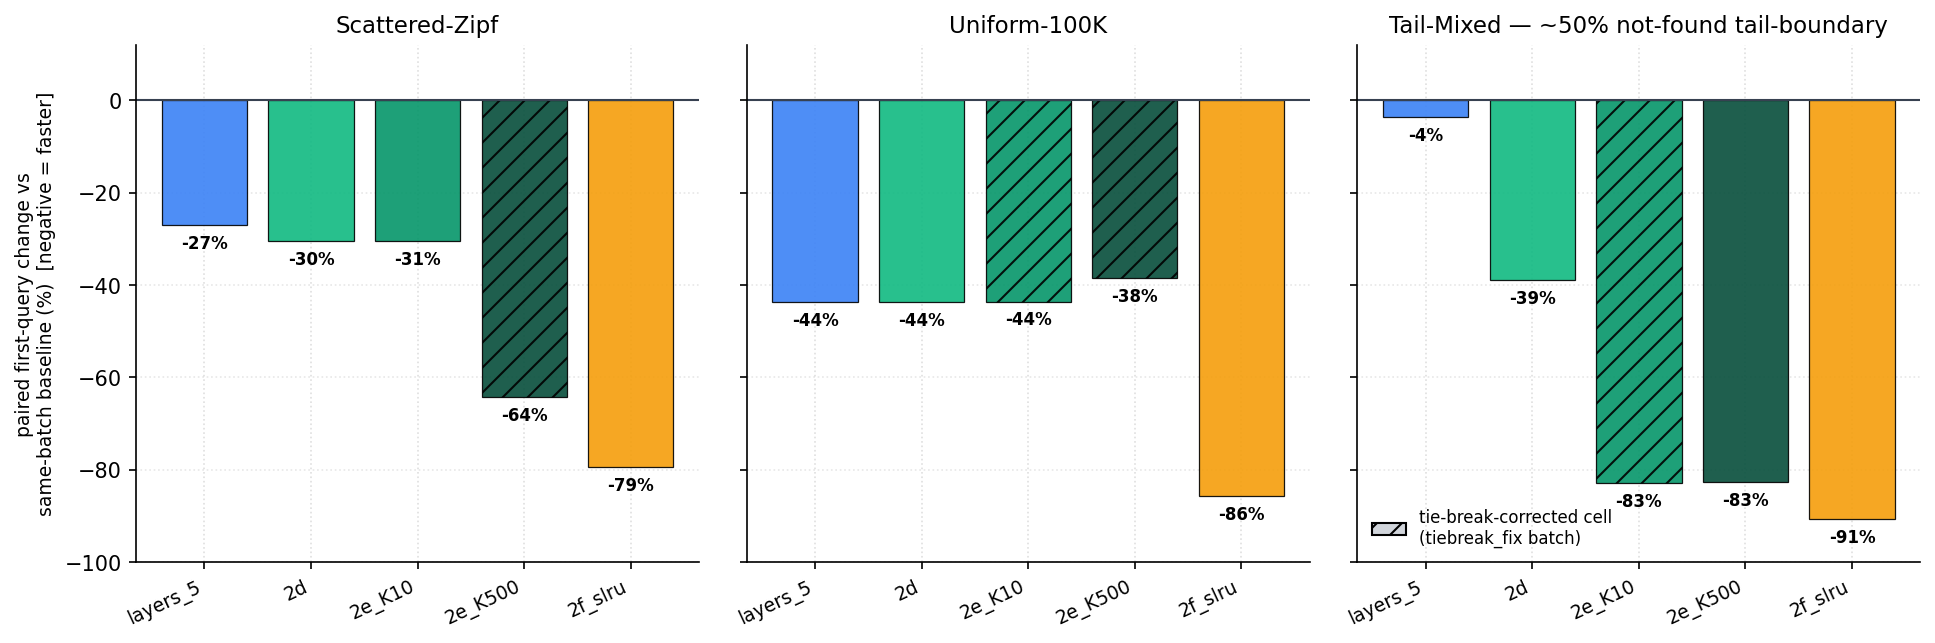
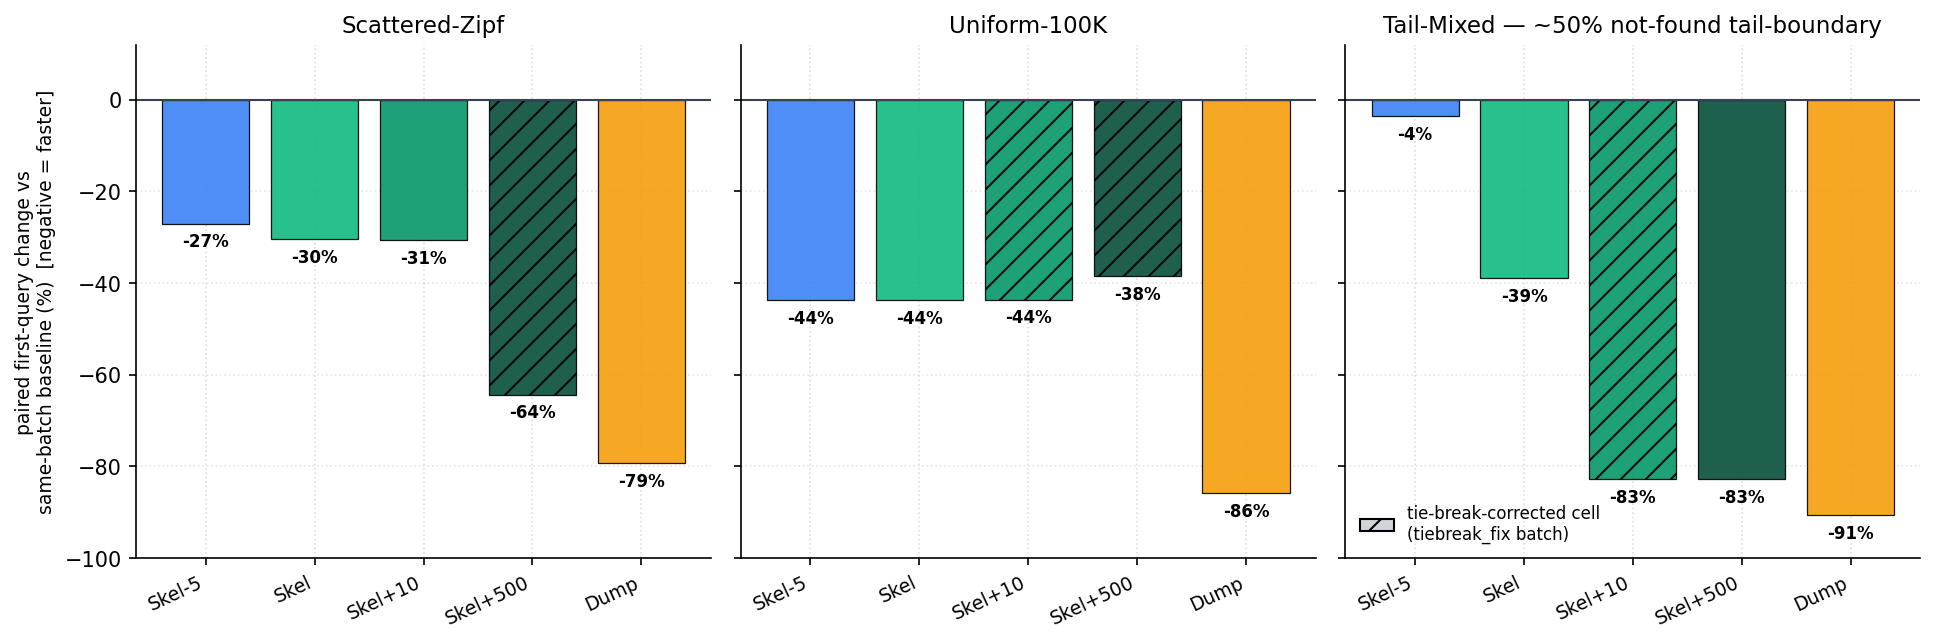
Regenerate figures with paper-facing strategy names
Update the 6 figure generators to render the short paper names instead of
notebook codenames, add a shared STRAT_DISPLAY map + strat_display() helper in
plot_utils (separate from STRAT_LABELS, which non-paper figures still use), and
regenerate the PNGs in figures/out. Fig 1 labels layouts orig/vacuum/type-aware
(1a/1b/1c dropped); figs 13/14/16/17/19 use Skel-N/Skel/Skel+K/Dump/Dump-N/
learned-Markov-N. Codebase strategy ids are unchanged. Bumps the paper submodule
pointer to the matching regenerated figures.

diff --git a/figures/plot_utils.py b/figures/plot_utils.py
@@ -76,6 +76,28 @@ STRAT_ORDER  = ["baseline", "layers_5", "layers_92", "2d", "2e_K10", "2e_K500", 
 STRAT_LABELS  = {"baseline": "baseline", "layers_5": "layers_5", "layers_92": "layers_92",
               "2d": "2d", "2e_K10": "2e_K10", "2e_K500": "2e_K500", "2f_slru": "2f SLRU"}
 
+# paper-facing display names (notebook codename -> short name used in the paper).
+# separate from STRAT_LABELS (which several non-paper figures still use verbatim).
+STRAT_DISPLAY = {
+    "baseline": "baseline",
+    "layers_5": "Skel-5", "layers_46": "Skel-46", "layers_92": "Skel-92",
+    "2a": "Skel-all-range", "2b": "Skel-all-page", "2d": "Skel",
+    "2e_K10": "Skel+10", "2e_K40": "Skel+40", "2e_K50": "Skel+50",
+    "2e_K92": "Skel+92", "2e_K100": "Skel+100", "2e_K500": "Skel+500",
+    "2f_slru": "Dump", "2f_SLRU": "Dump",
+    "2f_top14": "Dump-14", "2f_top28": "Dump-28",
+    "2f_top100": "Dump-100", "2f_top500": "Dump-500",
+    "learned_markov": "learned-Markov",
+    "learned_markov_14": "learned-Markov-14", "learned_markov_28": "learned-Markov-28",
+    "lp_sorted": "LP-sorted", "lp_shuf": "LP-shuf",
+    # ablation controls: paper renders these codenames verbatim, keep as-is
+    "leaf_rand_K10": "leaf_rand_K10", "leaf_freq_K10": "leaf_freq_K10",
+}
+
+def strat_display(s):
+    """Paper short-name for a notebook codename; identity for anything unmapped."""
+    return STRAT_DISPLAY.get(s, s)
+
 def load_summary(arm="async"):
     """Return {(workload, db, strategy): row} from summary.csv for one arm.
     baseline rows are stored under arm 'baseline' but exposed for every requested arm."""

diff --git a/figures/16_ram_pressure_sweep.py b/figures/16_ram_pressure_sweep.py
@@ -15,7 +15,7 @@ import csv, os
 import matplotlib
 matplotlib.use("Agg")
 import matplotlib.pyplot as plt
-from plot_utils import save, STRATEGY_COLORS, workload_display_name
+from plot_utils import save, STRATEGY_COLORS, workload_display_name, strat_display
 
 ROOT = os.path.dirname(os.path.dirname(os.path.abspath(__file__)))
 SWEEP = os.path.join(ROOT, "results/ram_pressure")
@@ -52,8 +52,8 @@ for col, wl in enumerate(WORKLOADS):
                 if (wl, s, "async") in DATA[t] else float("nan") for t, _ in CAPS]
         fq = [float(DATA[t].get((wl, s, "async"), {}).get("fq_median", "nan"))
               if (wl, s, "async") in DATA[t] else float("nan") for t, _ in CAPS]
-        ax_d.plot(xpos, dpct, "o-", color=col_s, lw=2, ms=6, label=s)
-        ax_f.plot(xpos, fq, "o-", color=col_s, lw=2, ms=6, label=s)
+        ax_d.plot(xpos, dpct, "o-", color=col_s, lw=2, ms=6, label=strat_display(s))
+        ax_f.plot(xpos, fq, "o-", color=col_s, lw=2, ms=6, label=strat_display(s))
     ax_f.plot(xpos, base_fq, "--", color="#dc2626", lw=1.5, label="baseline (no prefetch)")
     ax_d.axvline(0.5, color="#9ca3af", ls=":", lw=1)   # mark "cap < WS" region start
     ax_d.set_title(WL_TITLE[wl], fontsize=11)

diff --git a/figures/19_openwhisk_effectiveness_bars.py b/figures/19_openwhisk_effectiveness_bars.py
@@ -23,7 +23,7 @@ from collections import defaultdict
 
 import numpy as np
 
-from plot_utils import ROOT, plt, save
+from plot_utils import ROOT, plt, save, strat_display
 
 CSV = ROOT / "deployment/openwhisk/analysis/comparison/effectiveness_ow_vs_workstation_revised_freeze.csv"
 
@@ -61,7 +61,7 @@ def main():
 
         ax.set_title(wl, fontsize=11)
         ax.set_xticks(x)
-        labels = [r["strategy"] + ("*" if str(r.get("position_sensitive", "")).strip().lower() == "true" else "")
+        labels = [strat_display(r["strategy"]) + ("*" if str(r.get("position_sensitive", "")).strip().lower() == "true" else "")
                   for r in cells]
         ax.set_xticklabels(labels, rotation=90, fontsize=7.5)
         ax.set_xlim(-0.7, len(cells) - 0.3)

diff --git a/figures/01_page_distribution.py b/figures/01_page_distribution.py
@@ -11,9 +11,9 @@ import matplotlib.pyplot as plt
 import numpy as np
 
 LAYOUTS = [
-    ("1a (orig)",       ROOT / "pipeline/preparation/layout_rewriter/runs/classify_before.csv",  "#888888"),
-    ("1b (VACUUM)",     ROOT / "pipeline/preparation/layout_rewriter/runs/classify_vacuum.csv",  "#1f77b4"),
-    ("1c (type-aware)", ROOT / "pipeline/preparation/layout_rewriter/runs/classify_after.csv",   "#d62728"),
+    ("orig",       ROOT / "pipeline/preparation/layout_rewriter/runs/classify_before.csv",  "#888888"),
+    ("vacuum",     ROOT / "pipeline/preparation/layout_rewriter/runs/classify_vacuum.csv",  "#1f77b4"),
+    ("type-aware", ROOT / "pipeline/preparation/layout_rewriter/runs/classify_after.csv",   "#d62728"),
 ]
 DB_SIZE_MB = 103
 

diff --git a/figures/17_lever_ablation.py b/figures/17_lever_ablation.py
@@ -22,8 +22,8 @@ import matplotlib.pyplot as plt
 SOURCE = ROOT / "results/ablation_comp_v2/uncertainty.csv"
 
 ARMS   = ["2d", "leaf_rand_K10", "leaf_freq_K10", "2e_K10"]
-LABELS = {"2d": "2d\n(interior · page-type)", "leaf_rand_K10": "leaf_rand\n(control)",
-          "leaf_freq_K10": "leaf_freq\n(access-freq)", "2e_K10": "2e_K10\n(combined)"}
+LABELS = {"2d": "Skel\n(interior · page-type)", "leaf_rand_K10": "leaf_rand\n(control)",
+          "leaf_freq_K10": "leaf_freq\n(access-freq)", "2e_K10": "Skel+10\n(combined)"}
 ARM_COLOR = {"2d": "#3b82f6", "leaf_rand_K10": "#9ca3af",
              "leaf_freq_K10": "#059669", "2e_K10": "#111827"}
 METRICS = [("first_query_us", "first-query"), ("e2e_warm_us", "warm-process e2e")]

diff --git a/figures/13_strategy_firstq_bars.py b/figures/13_strategy_firstq_bars.py
@@ -27,8 +27,8 @@ CHANGED = {('A', '2e_K500'),
            ('C', '2e_K10'), ('C', '2e_K40'), ('C', '2e_K92')}
 
 ARMS      = ['layers_5', '2d', '2e_K10', '2e_K500', '2f_slru']
-ARM_LABEL = {'layers_5': 'layers_5', '2d': '2d', '2e_K10': '2e_K10',
-             '2e_K500': '2e_K500', '2f_slru': '2f_slru'}
+ARM_LABEL = {'layers_5': 'Skel-5', '2d': 'Skel', '2e_K10': 'Skel+10',
+             '2e_K500': 'Skel+500', '2f_slru': 'Dump'}
 # CSV keys stay legacy (A/B/C); titles resolve to canonical display names.
 WORKLOADS = ['A', 'B', 'C']
 WL_TITLE  = {'A': workload_display_name('A'),

diff --git a/figures/14_strategy_endtoend_stacked.py b/figures/14_strategy_endtoend_stacked.py
@@ -21,7 +21,7 @@ import numpy as np
 UNIFIED = ROOT / "results/unified_v2/matrix/summary.csv"
 
 ARMS      = ['baseline', 'layers_5', '2d', '2f_slru']   # tie-break-unaffected only
-ARM_LABEL = {'baseline': 'baseline', 'layers_5': 'layers_5', '2d': '2d', '2f_slru': '2f_slru'}
+ARM_LABEL = {'baseline': 'baseline', 'layers_5': 'Skel-5', '2d': 'Skel', '2f_slru': 'Dump'}
 # CSV keys stay legacy (A/B/C); titles resolve to canonical display names.
 WORKLOADS = ['A', 'B', 'C']
 WL_TITLE  = {'A': workload_display_name('A'),
